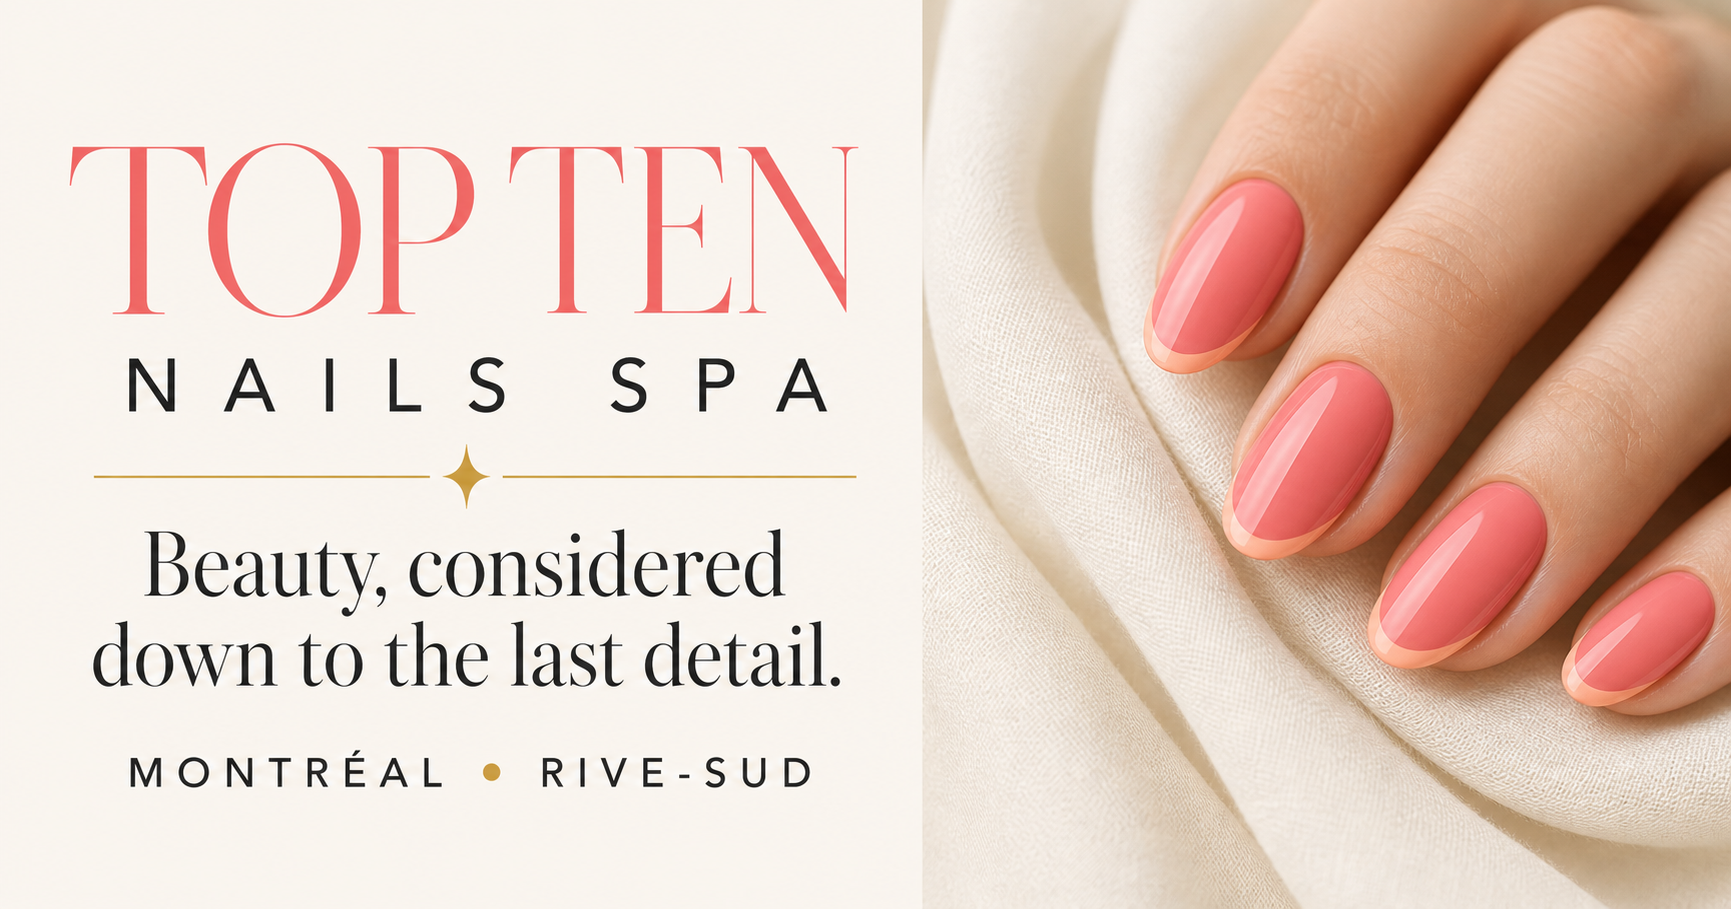
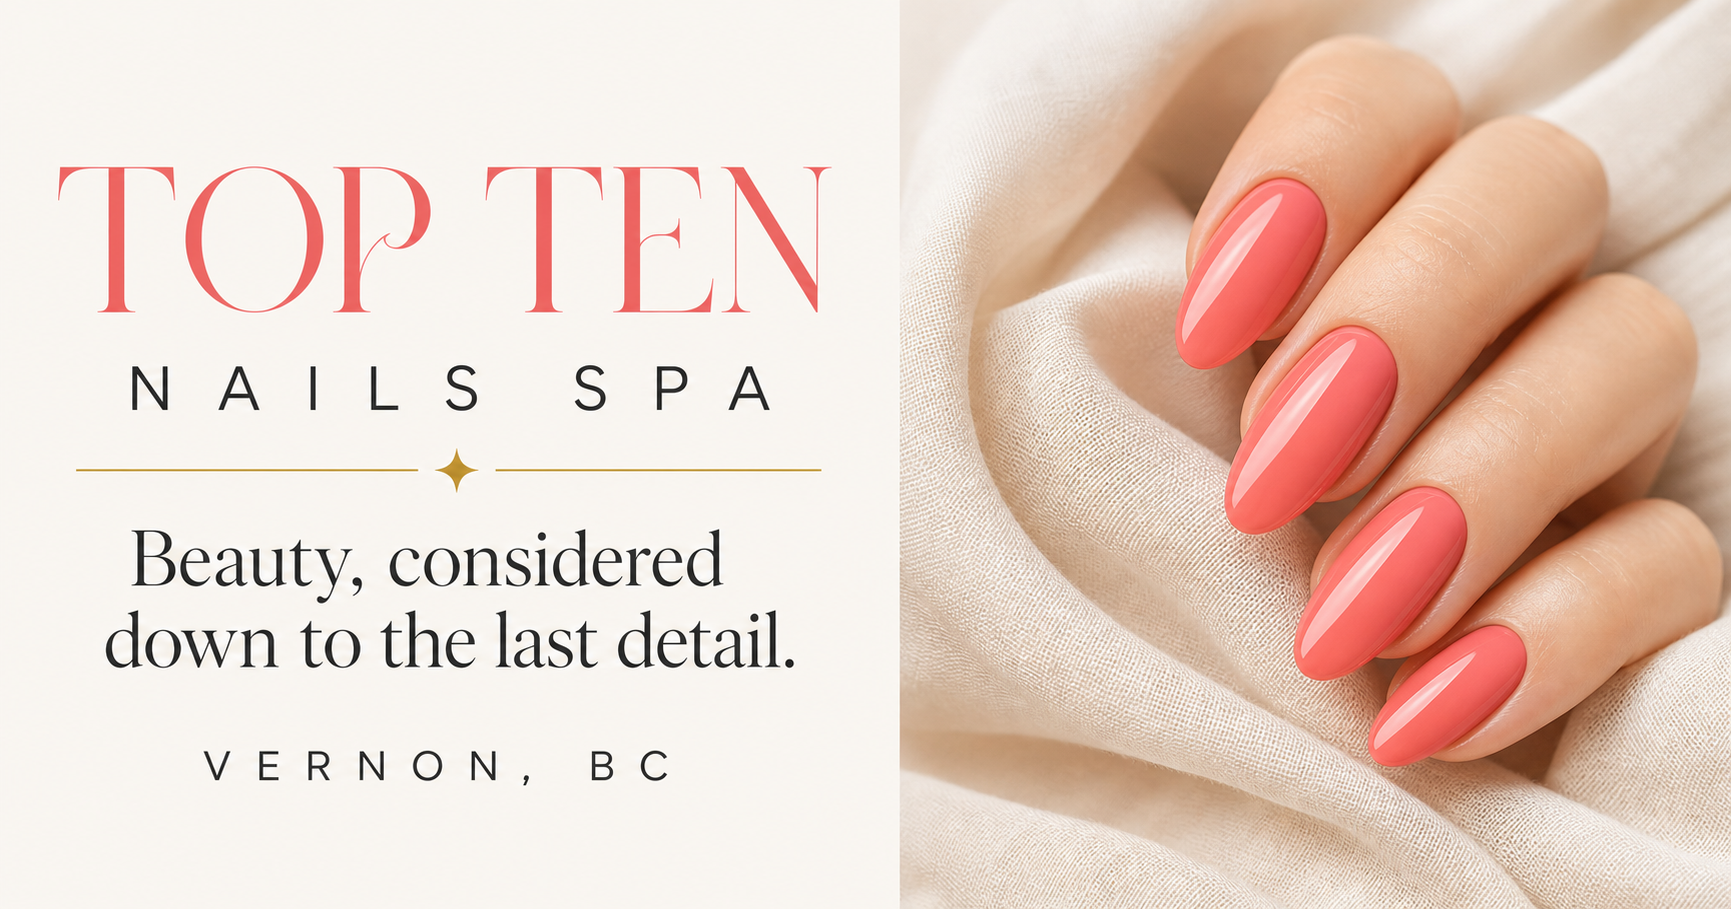
Update salon location to Vernon BC

diff --git a/src/app/page.js b/src/app/page.js
@@ -20,8 +20,16 @@ export default function Home() {
     "@context": "https://schema.org",
     "@type": "NailSalon",
     name: "Top Ten Nails Spa",
-    description: "A refined nail salon experience serving Montréal and the South Shore.",
-    areaServed: ["Montréal", "Rive-Sud"],
+    description: "A refined nail salon experience in Vernon, British Columbia.",
+    telephone: "+1-877-330-4318",
+    address: {
+      "@type": "PostalAddress",
+      streetAddress: "3208 30th Ave",
+      addressLocality: "Vernon",
+      addressRegion: "BC",
+      postalCode: "V1T 2C5",
+      addressCountry: "CA",
+    },
     priceRange: "$$",
   };
 
@@ -29,7 +37,7 @@ export default function Home() {
     <>
       <script type="application/ld+json" dangerouslySetInnerHTML={{ __html: JSON.stringify(schema) }} />
       <a className="skip-link" href="#main">Skip to content</a>
-      <div className="announcement">Now welcoming new clients in Montréal &amp; the South Shore <span>✦</span></div>
+      <div className="announcement">Now welcoming new clients in downtown Vernon <span>✦</span></div>
       <header className="site-header">
         <a className="brand" href="#top" aria-label="Top Ten Nails Spa, home">
           <span>Top Ten<sup>✦</sup></span>
@@ -47,7 +55,7 @@ export default function Home() {
       <main id="main">
         <section className="hero" id="top">
           <div className="hero-copy">
-            <p className="eyebrow">The essence of beauty</p>
+            <p className="eyebrow">Vernon, British Columbia</p>
             <h1>Beauty, considered down to the last detail.</h1>
             <p className="lede">Elevated nail care in a warm, modern space—thoughtfully designed for you to slow down, feel cared for and leave polished.</p>
             <div className="hero-actions">
@@ -110,8 +118,8 @@ export default function Home() {
           <div className="booking-intro">
             <p className="eyebrow">Your time, beautifully spent</p>
             <h2>Ready for a little you time?</h2>
-            <p>Tell us what you’re looking for and your preferred time. Your email app will open with a ready-to-send appointment request.</p>
-            <div className="mini-note"><span>✦</span> Please allow 1–2 business hours for confirmation.</div>
+            <p>Tell us what you’re looking for and your preferred time. Your messages app will open with a ready-to-send appointment request.</p>
+            <div className="mini-note"><span>✦</span> Prefer to call? <a href="tel:+18773304318">877-330-4318</a></div>
           </div>
           <BookingForm />
         </section>
@@ -125,10 +133,10 @@ export default function Home() {
       </main>
 
       <footer id="contact">
-        <div className="footer-brand"><div className="brand inverse"><span>Top Ten<sup>✦</sup></span><small>— Nails Spa —</small></div><p>L’essence de la beauté.</p></div>
-        <div><h3>Visit</h3><p>Montréal &amp; Rive-Sud<br />Québec, Canada</p><a href="#booking">Request an appointment</a></div>
+        <div className="footer-brand"><div className="brand inverse"><span>Top Ten<sup>✦</sup></span><small>— Nails Spa —</small></div><p>The essence of beauty.</p></div>
+        <div><h3>Visit</h3><p>3208 30th Ave<br />Vernon, BC V1T 2C5</p><a href="https://maps.google.com/?q=3208+30th+Ave+Vernon+BC+V1T+2C5" target="_blank" rel="noreferrer">Get directions ↗</a></div>
         <div><h3>Hours</h3><p>Mon–Fri · 9–7<br />Saturday · 9–5<br />Sunday · Closed</p></div>
-        <div><h3>Follow</h3><a href="https://www.instagram.com/" target="_blank" rel="noreferrer">Instagram ↗</a><a href="https://www.facebook.com/" target="_blank" rel="noreferrer">Facebook ↗</a></div>
+        <div><h3>Contact</h3><a href="tel:+18773304318">877-330-4318</a><a href="#booking">Request an appointment</a></div>
         <small className="copyright">© {new Date().getFullYear()} Top Ten Nails Spa. All rights reserved.</small>
       </footer>
       <a className="mobile-book" href="#booking">Book a visit <span>↗</span></a>

diff --git a/src/app/booking-form.js b/src/app/booking-form.js
@@ -9,12 +9,11 @@ export default function BookingForm() {
     event.preventDefault();
     const data = new FormData(event.currentTarget);
     const name = data.get("name");
-    const subject = encodeURIComponent(`Appointment request from ${name}`);
     const body = encodeURIComponent(
       `Hello Top Ten Nails Spa,\n\nI'd like to request an appointment.\n\nName: ${name}\nEmail or phone: ${data.get("contact")}\nService: ${data.get("service")}\nPreferred date: ${data.get("date")}\nPreferred time: ${data.get("time")}\n\nThank you!`
     );
-    setStatus("Your appointment request is ready—please send it from your email app.");
-    window.location.href = `mailto:hello@toptennailsspa.ca?subject=${subject}&body=${body}`;
+    setStatus("Your appointment request is ready—please send it from your messages app.");
+    window.location.href = `sms:+18773304318?&body=${body}`;
   }
 
   return (
@@ -23,7 +22,7 @@ export default function BookingForm() {
       <label>Email or phone<input name="contact" required autoComplete="email" placeholder="How we can reach you" /></label>
       <label>Service<select name="service" defaultValue=""><option value="" disabled>Choose a service</option><option>Signature Manicure</option><option>Gel Manicure</option><option>Spa Pedicure</option><option>Nail Art</option></select></label>
       <div className="form-row"><label>Preferred date<input name="date" type="date" required /></label><label>Time<select name="time" defaultValue="Any time"><option>Any time</option><option>Morning</option><option>Afternoon</option><option>Evening</option></select></label></div>
-      <button className="button" type="submit">Prepare appointment request <span>↗</span></button>
+      <button className="button" type="submit">Text appointment request <span>↗</span></button>
       <p className="form-status" aria-live="polite">{status}</p>
     </form>
   );

diff --git a/src/app/layout.js b/src/app/layout.js
@@ -6,9 +6,9 @@ const sans = Manrope({ subsets: ["latin"], variable: "--font-sans" });
 
 export const metadata = {
   metadataBase: new URL("https://toptennailsspa.ca"),
-  title: { default: "Top Ten Nails Spa | Montréal & Rive-Sud", template: "%s | Top Ten Nails Spa" },
-  description: "Refined manicures, gel nails, nail art and spa pedicures in a warm, modern salon serving Montréal and the South Shore.",
-  keywords: ["nail salon Montreal", "manicure Montreal", "nail salon Rive-Sud", "gel nails Montreal", "spa pedicure"],
+  title: { default: "Top Ten Nails Spa | Nail Salon in Vernon, BC", template: "%s | Top Ten Nails Spa" },
+  description: "Refined manicures, gel nails, nail art and spa pedicures at Top Ten Nails Spa, 3208 30th Ave in Vernon, BC.",
+  keywords: ["nail salon Vernon BC", "manicure Vernon", "gel nails Vernon", "spa pedicure Vernon", "nail art Vernon"],
   openGraph: { title: "Top Ten Nails Spa", description: "Beauty, considered down to the last detail.", type: "website", locale: "en_CA", images: [{ url: "/og.png", width: 1200, height: 630, alt: "Top Ten Nails Spa — beauty, considered down to the last detail" }] },
   twitter: { card: "summary_large_image", title: "Top Ten Nails Spa", description: "Beauty, considered down to the last detail.", images: ["/og.png"] },
 };
